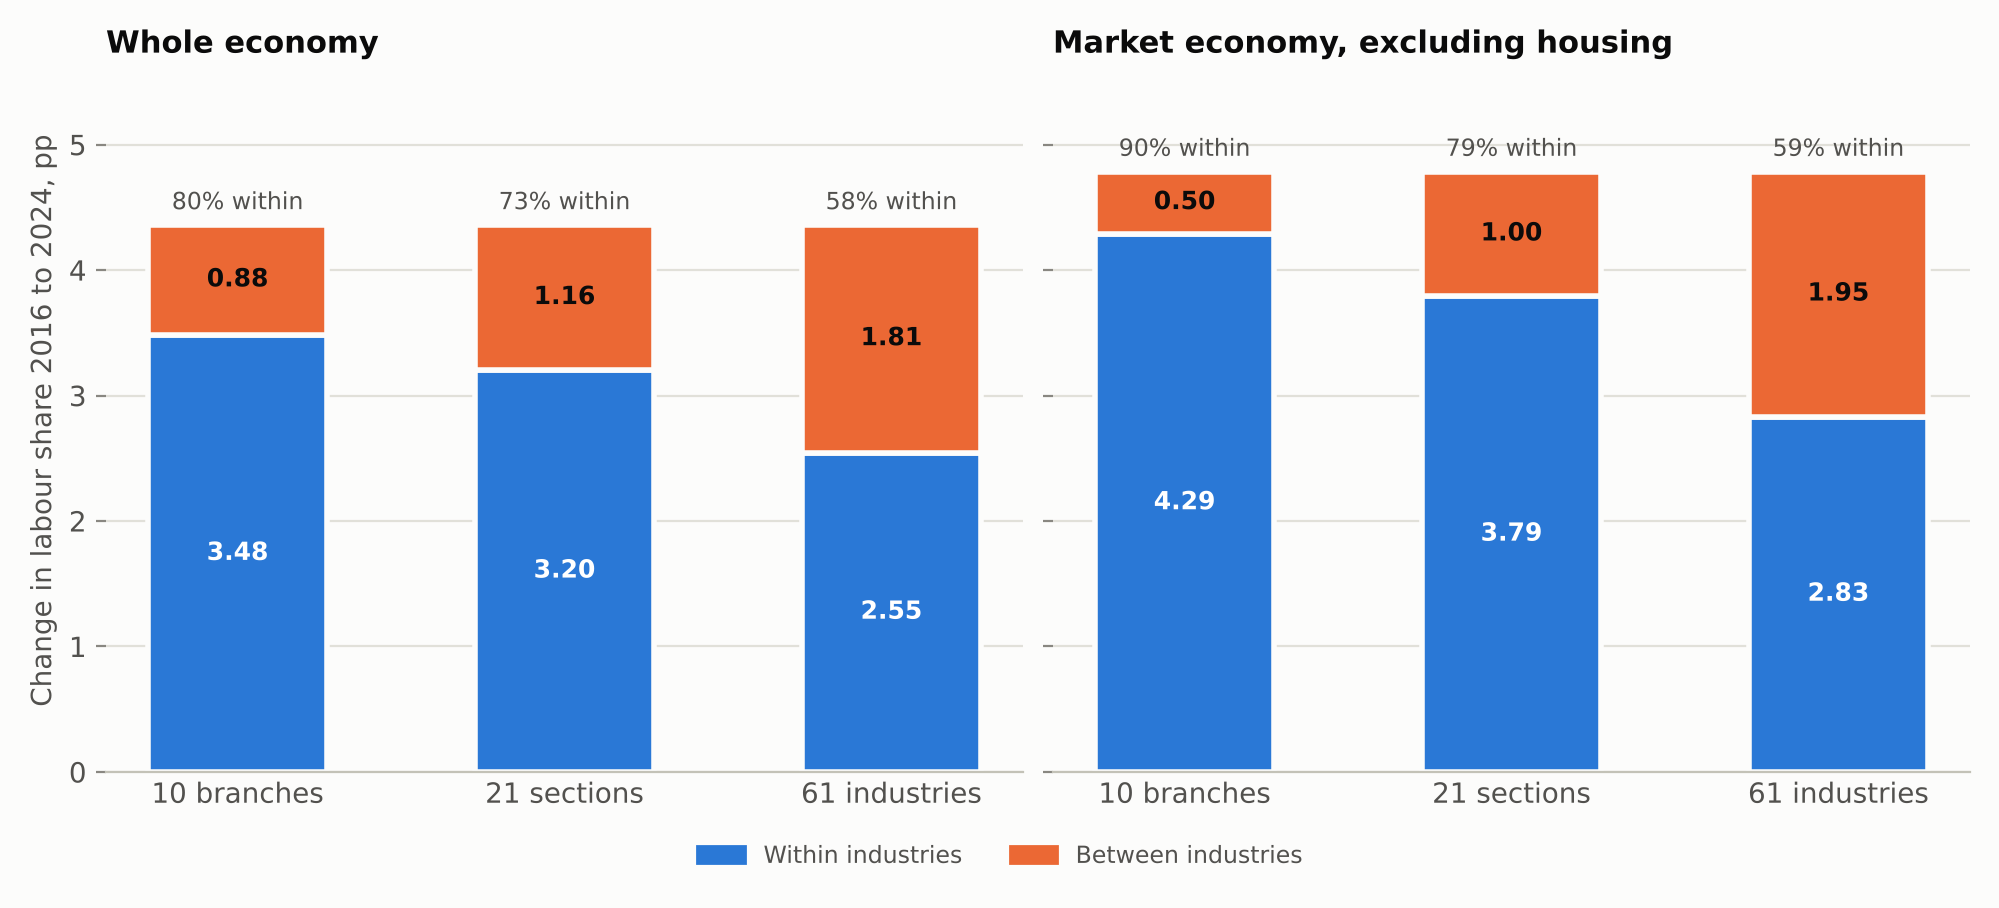
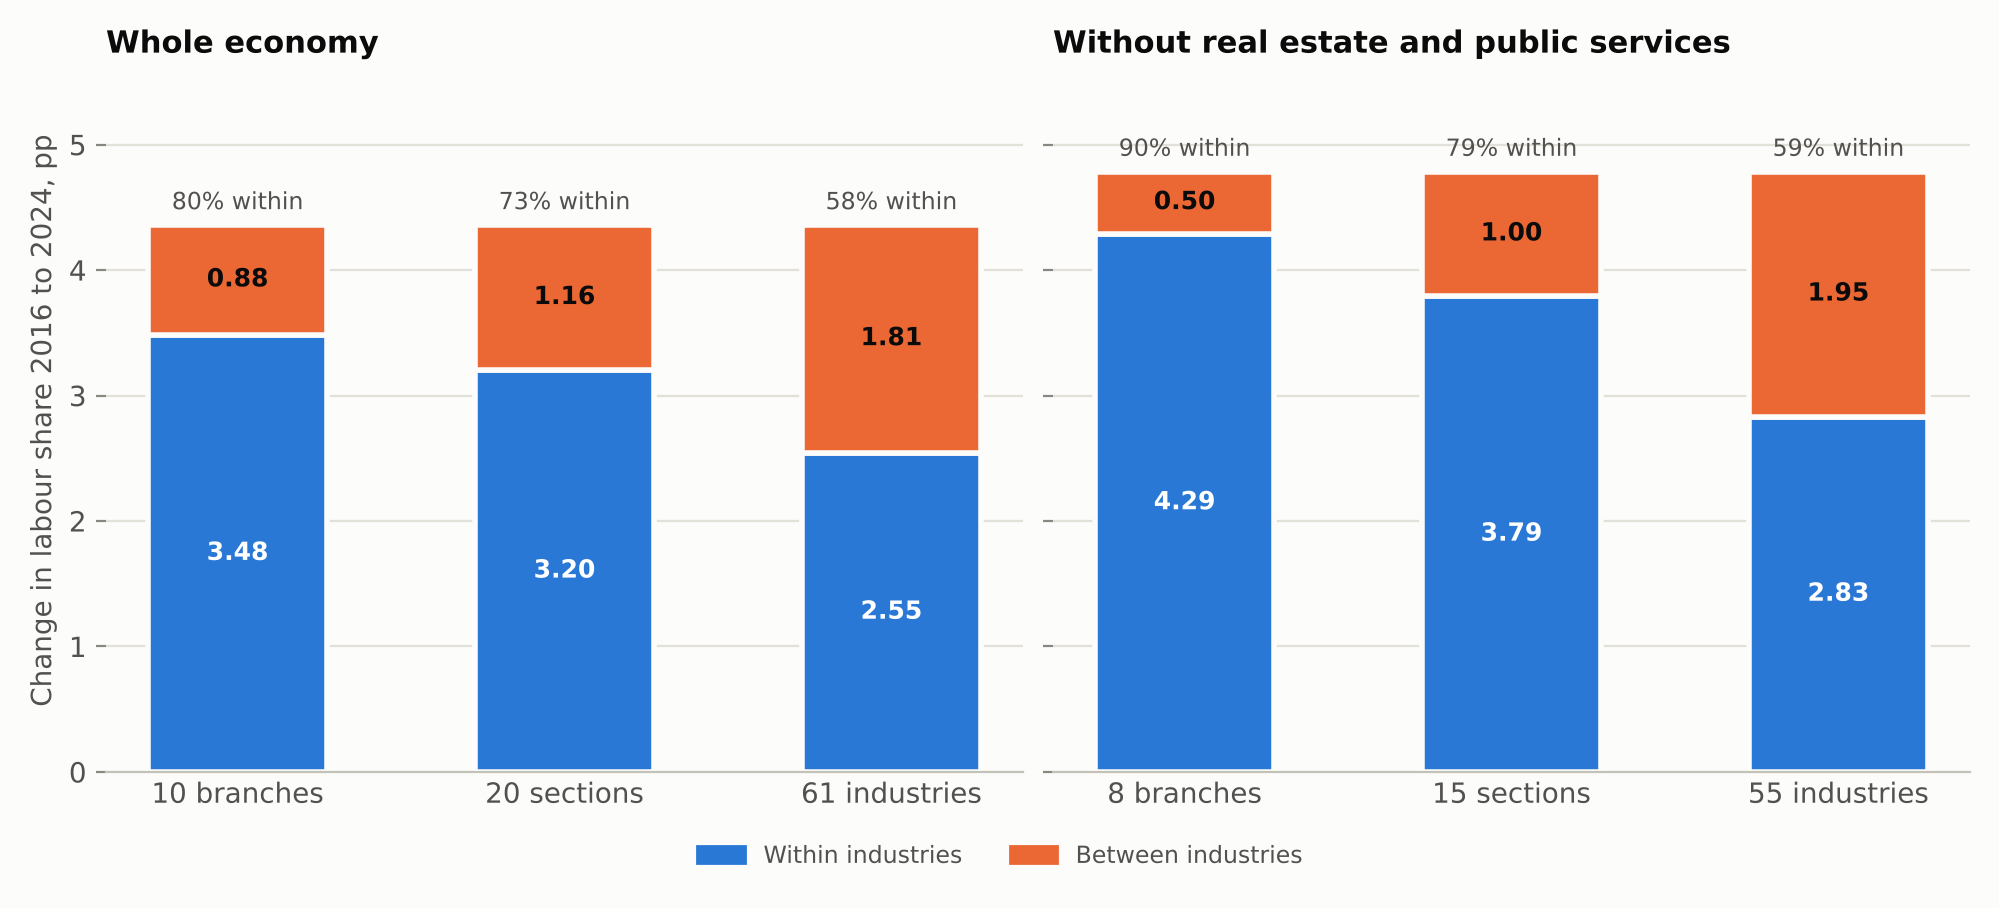
Measure between contributions against the average share

diff --git a/portugal-labour-share-industries/industries.py b/portugal-labour-share-industries/industries.py
@@ -232,7 +232,12 @@ def shift_share(frame: pd.DataFrame, start: int, end: int) -> pd.DataFrame:
     """Exact midpoint decomposition of the change in the aggregate share.
 
     With weights w = Y_i / sum Y and shares s = L_i / Y_i,
-    d(sum w s) = sum w_bar ds (within) + sum dw s_bar (between).
+    d(sum w s) = sum w_bar ds (within) + sum dw (s_bar - S_bar) (between),
+    where S_bar is the two-year average of the aggregate share. Because the
+    weight changes sum to zero, subtracting S_bar leaves the total between
+    term unchanged; it makes each group's between term mean something on its
+    own: a group that gains weight raises the aggregate share only if its
+    labour share is above the aggregate.
 
     Returns
     -------
@@ -244,10 +249,11 @@ def shift_share(frame: pd.DataFrame, start: int, end: int) -> pd.DataFrame:
     b = frame[frame["year"] == end].set_index("g")
     w0, w1 = a["Y"] / a["Y"].sum(), b["Y"] / b["Y"].sum()
     s0, s1 = a["L"] / a["Y"], b["L"] / b["Y"]
+    agg = (a["L"].sum() / a["Y"].sum() + b["L"].sum() / b["Y"].sum()) / 2
     out = pd.DataFrame({
         "w_start": 100 * w0, "w_end": 100 * w1, "s_start": 100 * s0, "s_end": 100 * s1,
         "within": 100 * (w0 + w1) / 2 * (s1 - s0),
-        "between": 100 * (w1 - w0) * (s0 + s1) / 2,
+        "between": 100 * (w1 - w0) * ((s0 + s1) / 2 - agg),
     })
     total = 100 * (b["L"].sum() / b["Y"].sum() - a["L"].sum() / a["Y"].sum())
     if abs(out["within"].sum() + out["between"].sum() - total) > 1e-9:
@@ -414,6 +420,14 @@ def main() -> None:
             rep.add(f"    PT a64 per person without the cap: {uncapped.loc[FIRST_YEAR]:.1f}->{uncapped.loc[LAST_YEAR]:.1f} ({uncapped.loc[LAST_YEAR] - uncapped.loc[FIRST_YEAR]:+.2f})")
             binding = cap_binding(panel)
             rep.add(f"    PT cap binds in {len(binding)} of {len(panel)} industry-years, {binding['code'].nunique()} industries; agriculture (A01) years: {int((binding['code'] == 'A01').sum())}")
+            merged = binding.merge(panel, on=["code", "year"])
+            rep.add(f"    PT of those, compensation alone exceeds value added in {int((merged['D1'] > merged['Y']).sum())}; by industry: "
+                    + ", ".join(f"{c} {n}" for c, n in binding['code'].value_counts().items()))
+            hours = read_long("nama_10_a64_e")
+            hours = hours[(hours["geo"] == "PT") & (hours["unit"] == "THS_HW") & hours["nace_r2"].isin(A64) & (hours["nace_r2"] != "U")]
+            covered = hours.groupby("year")["value"].apply(lambda v: int(v.notna().sum() // 2))
+            complete = covered[covered == covered.max()].index.min()
+            rep.add(f"    PT A64 hours published for {covered.loc[FIRST_YEAR]} of {covered.max()} industries in {FIRST_YEAR}; complete from {complete}")
     pd.DataFrame(imputation_rows).to_csv(RESULTS / "imputation_levels.csv", index=False, float_format="%.4f")
 
     # 3. Shift-share grid -------------------------------------------------------
@@ -465,6 +479,14 @@ def main() -> None:
         f"{g} {r['between']:+.2f} (weight {r.w_start:.2f}->{r.w_end:.2f})" for g, r in ind.sort_values("between", ascending=False).head(4).iterrows()))
     rep.add("  most negative A64 between contributions: " + "; ".join(
         f"{g} {r['between']:+.2f} (weight {r.w_start:.2f}->{r.w_end:.2f})" for g, r in ind.sort_values("between").head(3).iterrows()))
+
+    mkt = shift_share(grouped(pt, "raw", "a64", "market"), 2016, 2024)
+    rep.add("  market economy, largest A64 between contributions: " + "; ".join(
+        f"{g} {r['between']:+.2f} (weight {r.w_start:.2f}->{r.w_end:.2f}, share {r.s_start:.1f}->{r.s_end:.1f})"
+        for g, r in mkt.sort_values("between", ascending=False).head(4).iterrows()))
+    rep.add("  market economy, most negative A64 between contributions: " + "; ".join(
+        f"{g} {r['between']:+.2f} (weight {r.w_start:.2f}->{r.w_end:.2f}, share {r.s_start:.1f}->{r.s_end:.1f})"
+        for g, r in mkt.sort_values("between").head(3).iterrows()))
 
     # 5. Pay level and the within change --------------------------------------
     rep.section("5. Within-industry change against initial pay, A64, 2016->2024")

diff --git a/portugal-labour-share-industries/figures.py b/portugal-labour-share-industries/figures.py
@@ -101,10 +101,11 @@ def fig2_granularity() -> None:
     grid = pd.read_csv(RESULTS / "shift_share_grid.csv")
     grid = grid[(grid["start"] == 2016) & (grid["end"] == 2024) & (grid["numerator"] == "raw")]
     fig, axes = plt.subplots(1, 2, figsize=(10, 4.2), sharey=True)
-    titles = {"economy": "Whole economy", "market": "Market economy, excluding housing"}
-    labels = {"a10": "10 branches", "a21": "21 sections", "a64": "61 industries"}
+    titles = {"economy": "Whole economy", "market": "Without real estate and public services"}
+    nouns = {"a10": "branches", "a21": "sections", "a64": "industries"}
     for ax, scope in zip(axes, ("economy", "market")):
-        sub = grid[grid["scope"] == scope].set_index("level").loc[list(labels)]
+        sub = grid[grid["scope"] == scope].set_index("level").loc[list(nouns)]
+        labels = {k: f"{int(sub.loc[k, 'groups'])} {nouns[k]}" for k in nouns}
         x = np.arange(len(sub))
         ax.bar(x, sub["within"], color=BLUE, width=0.55, edgecolor=SURFACE, linewidth=2)
         ax.bar(x, sub["between"], bottom=sub["within"], color=ORANGE, width=0.55, edgecolor=SURFACE, linewidth=2)
@@ -139,7 +140,8 @@ def fig3_sections() -> None:
     ax.axvline(0, color=AXIS, linewidth=1)
     ax.tick_params(axis="y", length=0)
     ax.set_xlabel("Contribution to the change in the labour share 2016 to 2024, pp")
-    handles = [Patch(color=BLUE, label="Within the section"), Patch(color=ORANGE, label="Change in the section's weight"),
+    handles = [Patch(color=BLUE, label="Within the section"),
+               Patch(color=ORANGE, label="Change in weight, relative to the average share"),
                plt.Line2D([], [], color=INK, marker="o", linestyle="", markersize=5, label="Total")]
     ax.legend(handles=handles, loc="lower right", fontsize=8.5)
     fig.tight_layout()
